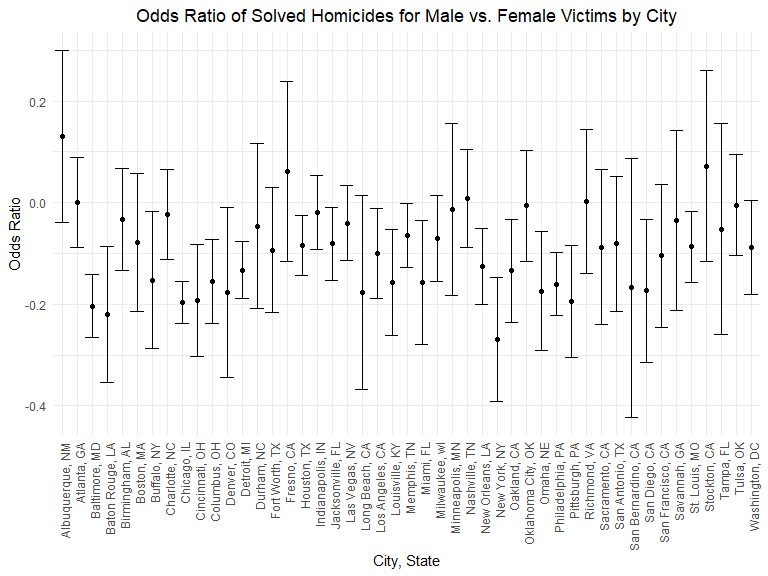
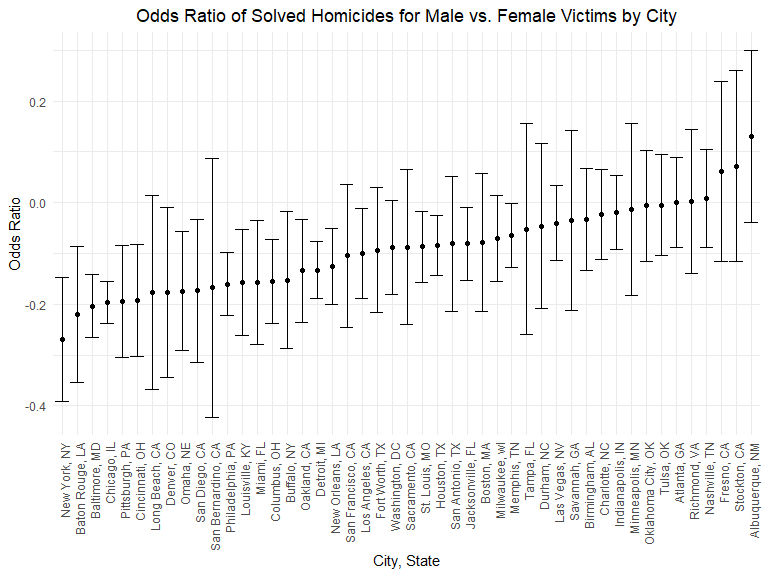
Backward selection

diff --git a/p8105_hw6_sr3861.md b/p8105_hw6_sr3861.md
@@ -1,7 +1,7 @@
 Homework 6
 ================
 Shritama Ray
-2022-12-01
+2022-12-03
 
 ### Problem 1: Central Park Weather
 
@@ -79,7 +79,8 @@ glm_all =
 
 #Plot
 glm_all %>%
-  ggplot(aes(x = city_state, y = estimate)) +
+  mutate(fct_reorder(city_state, estimate))%>%
+  ggplot(aes(x = reorder(city_state, estimate), y = estimate)) +
   geom_point() +
 geom_errorbar(aes(ymin = lower_95, ymax = upper_95)) +
   labs(
@@ -93,3 +94,227 @@ geom_errorbar(aes(ymin = lower_95, ymax = upper_95)) +
 ```
 
 <img src="p8105_hw6_sr3861_files/figure-gfm/all cities-1.png" width="90%" />
+
+### Problem 3: Birthweight Regression
+
+Load & clean data:
+
+``` r
+birthweight = read_csv("./birthweight.csv") %>%
+  janitor::clean_names() %>%
+  mutate(
+    #convert from numeric to factor variables
+    babysex = factor(babysex),
+    frace = factor(frace),
+    malform = factor(malform),
+    mrace = factor(mrace))
+```
+
+    ## Rows: 4342 Columns: 20
+    ## ── Column specification ────────────────────────────────────────────────────────
+    ## Delimiter: ","
+    ## dbl (20): babysex, bhead, blength, bwt, delwt, fincome, frace, gaweeks, malf...
+    ## 
+    ## ℹ Use `spec()` to retrieve the full column specification for this data.
+    ## ℹ Specify the column types or set `show_col_types = FALSE` to quiet this message.
+
+``` r
+str(birthweight)
+```
+
+    ## tibble [4,342 × 20] (S3: tbl_df/tbl/data.frame)
+    ##  $ babysex : Factor w/ 2 levels "1","2": 2 1 2 1 2 1 2 2 1 1 ...
+    ##  $ bhead   : num [1:4342] 34 34 36 34 34 33 33 33 36 33 ...
+    ##  $ blength : num [1:4342] 51 48 50 52 52 52 46 49 52 50 ...
+    ##  $ bwt     : num [1:4342] 3629 3062 3345 3062 3374 ...
+    ##  $ delwt   : num [1:4342] 177 156 148 157 156 129 126 140 146 169 ...
+    ##  $ fincome : num [1:4342] 35 65 85 55 5 55 96 5 85 75 ...
+    ##  $ frace   : Factor w/ 5 levels "1","2","3","4",..: 1 2 1 1 1 1 2 1 1 2 ...
+    ##  $ gaweeks : num [1:4342] 39.9 25.9 39.9 40 41.6 ...
+    ##  $ malform : Factor w/ 2 levels "0","1": 1 1 1 1 1 1 1 1 1 1 ...
+    ##  $ menarche: num [1:4342] 13 14 12 14 13 12 14 12 11 12 ...
+    ##  $ mheight : num [1:4342] 63 65 64 64 66 66 72 62 61 64 ...
+    ##  $ momage  : num [1:4342] 36 25 29 18 20 23 29 19 13 19 ...
+    ##  $ mrace   : Factor w/ 4 levels "1","2","3","4": 1 2 1 1 1 1 2 1 1 2 ...
+    ##  $ parity  : num [1:4342] 3 0 0 0 0 0 0 0 0 0 ...
+    ##  $ pnumlbw : num [1:4342] 0 0 0 0 0 0 0 0 0 0 ...
+    ##  $ pnumsga : num [1:4342] 0 0 0 0 0 0 0 0 0 0 ...
+    ##  $ ppbmi   : num [1:4342] 26.3 21.3 23.6 21.8 21 ...
+    ##  $ ppwt    : num [1:4342] 148 128 137 127 130 115 105 119 105 145 ...
+    ##  $ smoken  : num [1:4342] 0 0 1 10 1 0 0 0 0 4 ...
+    ##  $ wtgain  : num [1:4342] 29 28 11 30 26 14 21 21 41 24 ...
+
+Propose a regression model:
+
+``` r
+#Fit a model using backwards step-wise selection (data-driven)
+lm_backward <- lm(bwt ~., data = birthweight)
+step(lm_backward, direction = "backward") 
+```
+
+    ## Start:  AIC=48717.83
+    ## bwt ~ babysex + bhead + blength + delwt + fincome + frace + gaweeks + 
+    ##     malform + menarche + mheight + momage + mrace + parity + 
+    ##     pnumlbw + pnumsga + ppbmi + ppwt + smoken + wtgain
+    ## 
+    ## 
+    ## Step:  AIC=48717.83
+    ## bwt ~ babysex + bhead + blength + delwt + fincome + frace + gaweeks + 
+    ##     malform + menarche + mheight + momage + mrace + parity + 
+    ##     pnumlbw + pnumsga + ppbmi + ppwt + smoken
+    ## 
+    ## 
+    ## Step:  AIC=48717.83
+    ## bwt ~ babysex + bhead + blength + delwt + fincome + frace + gaweeks + 
+    ##     malform + menarche + mheight + momage + mrace + parity + 
+    ##     pnumlbw + ppbmi + ppwt + smoken
+    ## 
+    ## 
+    ## Step:  AIC=48717.83
+    ## bwt ~ babysex + bhead + blength + delwt + fincome + frace + gaweeks + 
+    ##     malform + menarche + mheight + momage + mrace + parity + 
+    ##     ppbmi + ppwt + smoken
+    ## 
+    ##            Df Sum of Sq       RSS   AIC
+    ## - frace     4    124365 320848704 48712
+    ## - malform   1      1419 320725757 48716
+    ## - ppbmi     1      6346 320730684 48716
+    ## - momage    1     28661 320752999 48716
+    ## - mheight   1     66886 320791224 48717
+    ## - menarche  1    111679 320836018 48717
+    ## - ppwt      1    131132 320855470 48718
+    ## <none>                  320724338 48718
+    ## - fincome   1    193454 320917792 48718
+    ## - parity    1    413584 321137922 48721
+    ## - mrace     3    868321 321592659 48724
+    ## - babysex   1    853796 321578134 48727
+    ## - gaweeks   1   4611823 325336161 48778
+    ## - smoken    1   5076393 325800732 48784
+    ## - delwt     1   8008891 328733230 48823
+    ## - blength   1 102050296 422774634 49915
+    ## - bhead     1 106535716 427260054 49961
+    ## 
+    ## Step:  AIC=48711.51
+    ## bwt ~ babysex + bhead + blength + delwt + fincome + gaweeks + 
+    ##     malform + menarche + mheight + momage + mrace + parity + 
+    ##     ppbmi + ppwt + smoken
+    ## 
+    ##            Df Sum of Sq       RSS   AIC
+    ## - malform   1      1447 320850151 48710
+    ## - ppbmi     1      6975 320855679 48710
+    ## - momage    1     28379 320877083 48710
+    ## - mheight   1     69502 320918206 48710
+    ## - menarche  1    115708 320964411 48711
+    ## - ppwt      1    133961 320982665 48711
+    ## <none>                  320848704 48712
+    ## - fincome   1    194405 321043108 48712
+    ## - parity    1    414687 321263390 48715
+    ## - babysex   1    852133 321700837 48721
+    ## - gaweeks   1   4625208 325473911 48772
+    ## - smoken    1   5036389 325885093 48777
+    ## - delwt     1   8013099 328861802 48817
+    ## - mrace     3  13540415 334389119 48885
+    ## - blength   1 101995688 422844392 49908
+    ## - bhead     1 106662962 427511666 49956
+    ## 
+    ## Step:  AIC=48709.53
+    ## bwt ~ babysex + bhead + blength + delwt + fincome + gaweeks + 
+    ##     menarche + mheight + momage + mrace + parity + ppbmi + ppwt + 
+    ##     smoken
+    ## 
+    ##            Df Sum of Sq       RSS   AIC
+    ## - ppbmi     1      6928 320857079 48708
+    ## - momage    1     28660 320878811 48708
+    ## - mheight   1     69320 320919470 48708
+    ## - menarche  1    116027 320966177 48709
+    ## - ppwt      1    133894 320984044 48709
+    ## <none>                  320850151 48710
+    ## - fincome   1    193784 321043934 48710
+    ## - parity    1    414482 321264633 48713
+    ## - babysex   1    851279 321701430 48719
+    ## - gaweeks   1   4624003 325474154 48770
+    ## - smoken    1   5035195 325885346 48775
+    ## - delwt     1   8029079 328879230 48815
+    ## - mrace     3  13553320 334403471 48883
+    ## - blength   1 102009225 422859375 49906
+    ## - bhead     1 106675331 427525481 49954
+    ## 
+    ## Step:  AIC=48707.63
+    ## bwt ~ babysex + bhead + blength + delwt + fincome + gaweeks + 
+    ##     menarche + mheight + momage + mrace + parity + ppwt + smoken
+    ## 
+    ##            Df Sum of Sq       RSS   AIC
+    ## - momage    1     29211 320886290 48706
+    ## - menarche  1    117635 320974714 48707
+    ## <none>                  320857079 48708
+    ## - fincome   1    195199 321052278 48708
+    ## - parity    1    412984 321270064 48711
+    ## - babysex   1    850020 321707099 48717
+    ## - mheight   1   1078673 321935752 48720
+    ## - ppwt      1   2934023 323791103 48745
+    ## - gaweeks   1   4621504 325478583 48768
+    ## - smoken    1   5039368 325896447 48773
+    ## - delwt     1   8024939 328882018 48813
+    ## - mrace     3  13551444 334408523 48881
+    ## - blength   1 102018559 422875638 49904
+    ## - bhead     1 106821342 427678421 49953
+    ## 
+    ## Step:  AIC=48706.02
+    ## bwt ~ babysex + bhead + blength + delwt + fincome + gaweeks + 
+    ##     menarche + mheight + mrace + parity + ppwt + smoken
+    ## 
+    ##            Df Sum of Sq       RSS   AIC
+    ## - menarche  1    100121 320986412 48705
+    ## <none>                  320886290 48706
+    ## - fincome   1    240800 321127090 48707
+    ## - parity    1    431433 321317724 48710
+    ## - babysex   1    841278 321727568 48715
+    ## - mheight   1   1076739 321963029 48719
+    ## - ppwt      1   2913653 323799943 48743
+    ## - gaweeks   1   4676469 325562760 48767
+    ## - smoken    1   5045104 325931394 48772
+    ## - delwt     1   8000672 328886962 48811
+    ## - mrace     3  14667730 335554021 48894
+    ## - blength   1 101990556 422876847 49902
+    ## - bhead     1 106864308 427750598 49952
+    ## 
+    ## Step:  AIC=48705.38
+    ## bwt ~ babysex + bhead + blength + delwt + fincome + gaweeks + 
+    ##     mheight + mrace + parity + ppwt + smoken
+    ## 
+    ##           Df Sum of Sq       RSS   AIC
+    ## <none>                 320986412 48705
+    ## - fincome  1    245637 321232048 48707
+    ## - parity   1    422770 321409181 48709
+    ## - babysex  1    846134 321832545 48715
+    ## - mheight  1   1012240 321998651 48717
+    ## - ppwt     1   2907049 323893461 48743
+    ## - gaweeks  1   4662501 325648912 48766
+    ## - smoken   1   5073849 326060260 48771
+    ## - delwt    1   8137459 329123871 48812
+    ## - mrace    3  14683609 335670021 48894
+    ## - blength  1 102191779 423178191 49903
+    ## - bhead    1 106779754 427766166 49950
+
+    ## 
+    ## Call:
+    ## lm(formula = bwt ~ babysex + bhead + blength + delwt + fincome + 
+    ##     gaweeks + mheight + mrace + parity + ppwt + smoken, data = birthweight)
+    ## 
+    ## Coefficients:
+    ## (Intercept)     babysex2        bhead      blength        delwt      fincome  
+    ##   -6098.822       28.558      130.777       74.947        4.107        0.318  
+    ##     gaweeks      mheight       mrace2       mrace3       mrace4       parity  
+    ##      11.592        6.594     -138.792      -74.887     -100.678       96.305  
+    ##        ppwt       smoken  
+    ##      -2.676       -4.843
+
+I created a data-driven model using backwards stepwise selection. This
+process starts with all variables as covariates to predict the outcome
+(birthweight). It then one by one, removes the lease significant
+variables from the model until a final model is fitted with only the
+most significant covariates remaining.
+
+The final model created through this process is: bwt \~ babysex +
+bhead + blength + delwt + fincome + gaweeks + mheight + mrace + parity +
+ppwt + smoken
